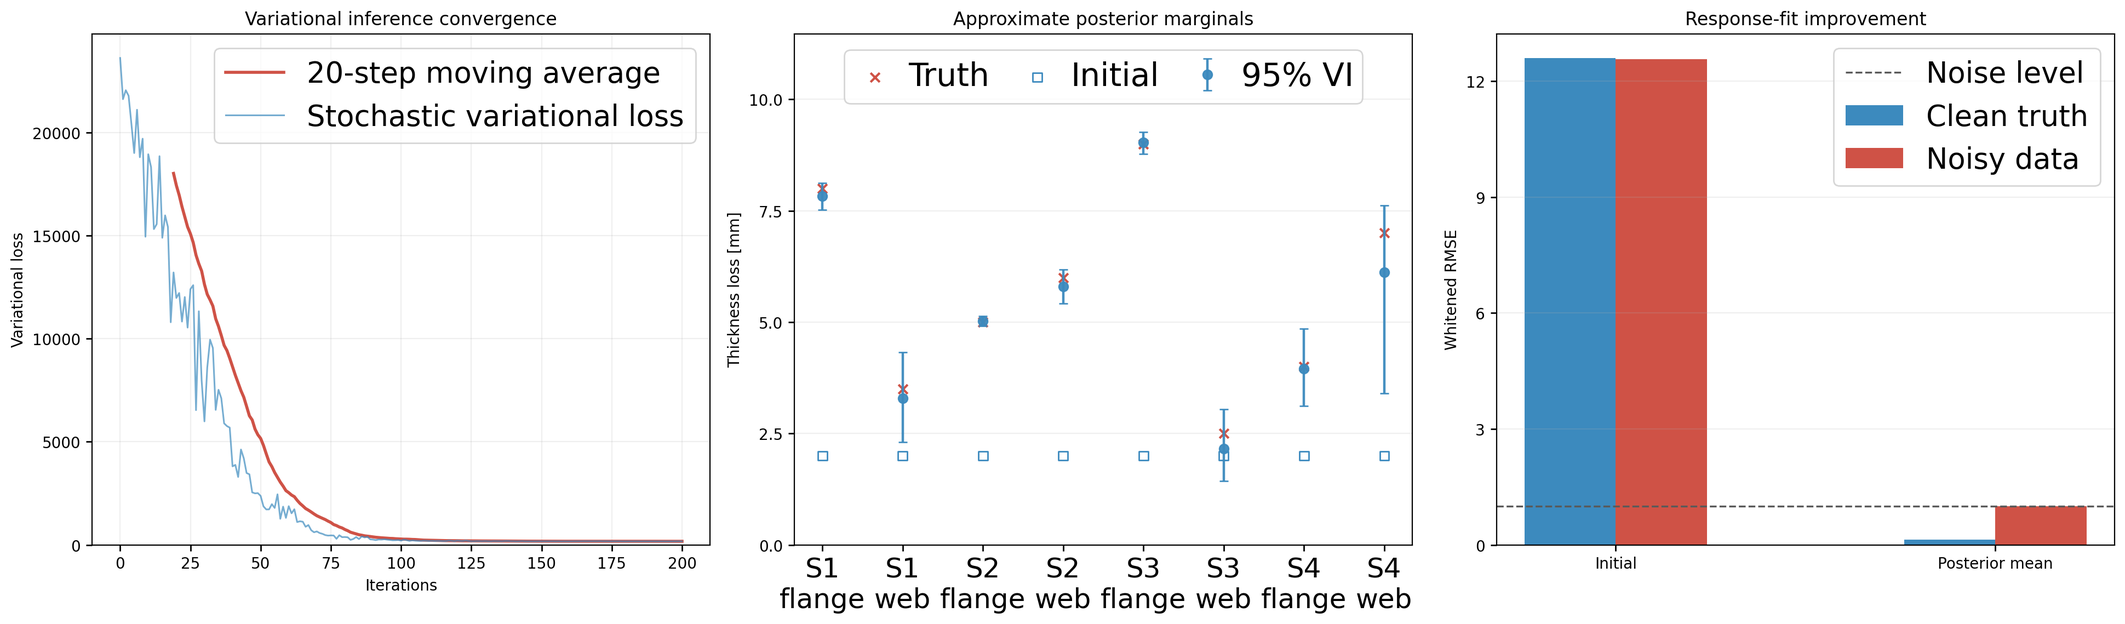
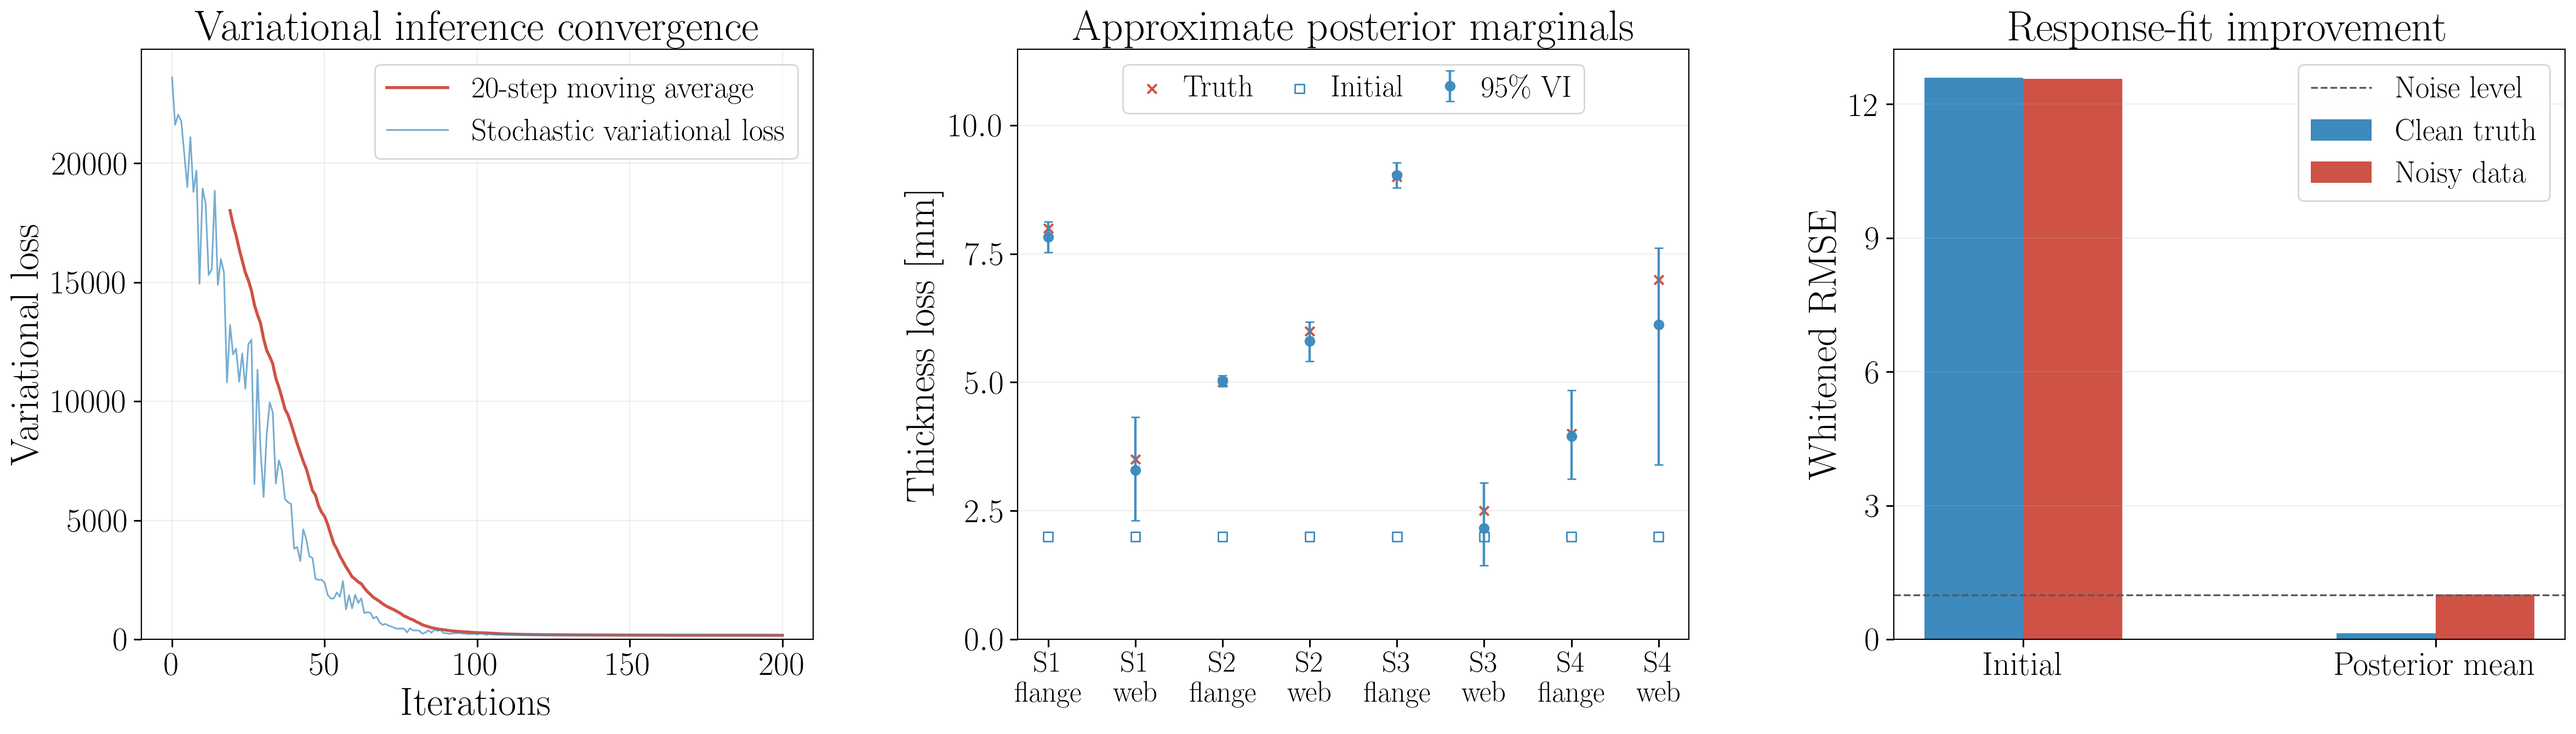
Improve README and frame result visualization

diff --git a/examples/shm_frame/plots.py b/examples/shm_frame/plots.py
@@ -10,7 +10,9 @@ from matplotlib.lines import Line2D
 from matplotlib.ticker import MaxNLocator
 from scipy.stats import gaussian_kde
 
-from utils.plot_style import BLUE, ERROR_CMAP, RED
+from utils.plot_style import BLUE, ERROR_CMAP, RED, set_plot_style
+
+set_plot_style(25)
 
 
 def plot_inference_summary(
@@ -29,7 +31,7 @@ def plot_inference_summary(
     mean = samples.mean(axis=0)
     lower, upper = np.quantile(samples, [0.025, 0.975], axis=0)
 
-    figure, axes = plt.subplots(1, 3, figsize=(19.5, 5.8))
+    figure, axes = plt.subplots(1, 3, figsize=(24.0, 7.2))
     steps = np.arange(len(vi_loss))
     window = min(20, max(1, len(vi_loss) // 5))
     if len(vi_loss) >= window:
@@ -58,7 +60,7 @@ def plot_inference_summary(
         ylim=(0.0, None),
     )
     axes[0].grid(True, alpha=0.2)
-    axes[0].legend(fontsize=19)
+    axes[0].legend(fontsize=20)
 
     positions = np.arange(truth.size)
     axes[1].errorbar(
@@ -94,13 +96,13 @@ def plot_inference_summary(
     axes[1].legend(
         loc="upper center",
         ncol=3,
-        fontsize=21,
+        fontsize=20,
         handlelength=1.2,
         handletextpad=0.45,
         columnspacing=0.9,
         borderpad=0.35,
     )
-    axes[1].tick_params(axis="x", labelsize=18)
+    axes[1].tick_params(axis="x", labelsize=20)
 
     x = np.arange(2)
     width = 0.24
@@ -126,13 +128,21 @@ def plot_inference_summary(
         ylim=(0.0, None),
     )
     axes[2].grid(True, axis="y", alpha=0.2)
-    axes[2].legend(fontsize=19)
+    axes[2].legend(fontsize=20)
 
     for axis in axes:
+        axis.title.set_fontsize(28)
+        axis.xaxis.label.set_fontsize(26)
+        axis.yaxis.label.set_fontsize(26)
         axis.yaxis.set_major_locator(MaxNLocator(nbins=5, min_n_ticks=3))
-        axis.tick_params(axis="both", which="major", width=1.0, length=4)
+        axis.tick_params(
+            axis="both", which="major", labelsize=22, width=1.1, length=5
+        )
 
-    figure.tight_layout()
+    # Keep the two-line parameter labels readable without crowding.
+    axes[1].tick_params(axis="x", labelsize=19)
+
+    figure.tight_layout(pad=1.0, w_pad=2.4)
     path = Path(output)
     path.parent.mkdir(parents=True, exist_ok=True)
     figure.savefig(path, dpi=200, bbox_inches="tight")

diff --git a/examples/shm_frame/infer.py b/examples/shm_frame/infer.py
@@ -32,9 +32,6 @@ from examples.shm_frame.model import (
     true_corrosion,
 )
 from examples.shm_frame.plots import plot_inference_summary, plot_posterior_matrix
-from utils.plot_style import set_plot_style
-
-set_plot_style(25)
 
 SECTION_API = ROOT / "tesseracts" / "section_properties" / "tesseract_api.py"
 OPENSEES_API = ROOT / "tesseracts" / "opensees_ddm" / "tesseract_api.py"

diff --git a/README.md b/README.md
@@ -14,26 +14,18 @@ For any questions, please contact the team at [wxuby@connect.ust.hk](mailto:wxub
 
 ## Table of contents
 
-- [Differentiable Structural Health Monitoring with Tesseract](#differentiable-structural-health-monitoring-with-tesseract)
-  - [Table of contents](#table-of-contents)
-  - [Introduction](#introduction)
-  - [Modeling framework](#modeling-framework)
-  - [The composition](#the-composition)
-  - [Why Tesseract](#why-tesseract)
-  - [Installation](#installation)
-  - [Examples](#examples)
-    - [Gradient validation](#gradient-validation)
-      - [Model](#model)
-      - [Results](#results)
-    - [Static frame corrosion inference](#static-frame-corrosion-inference)
-      - [Model and observations](#model-and-observations)
-      - [Inference and results](#inference-and-results)
-    - [Transient bridge corrosion inference](#transient-bridge-corrosion-inference)
-      - [Model and observations](#model-and-observations-1)
-      - [Inference and results](#inference-and-results-1)
-  - [Repository structure](#repository-structure)
-  - [References](#references)
-  - [License](#license)
+- [Introduction](#introduction)
+- [Modeling framework](#modeling-framework)
+- [The composition](#the-composition)
+- [Why Tesseract](#why-tesseract)
+- [Installation](#installation)
+- [Examples](#examples)
+  - [1. Gradient validation](#1-gradient-validation)
+  - [2. Static frame corrosion inference](#2-static-frame-corrosion-inference)
+  - [3. Transient bridge corrosion inference](#3-transient-bridge-corrosion-inference)
+- [Repository structure](#repository-structure)
+- [References](#references)
+- [License](#license)
 
 ## Introduction
 
@@ -170,7 +162,7 @@ python -m pip install -r requirements.txt
 
 ## Examples
 
-### Gradient validation
+### 1. Gradient validation
 
 This example validates the complete differentiable composition on a nonlinear, path-dependent problem before it is used inside an inference workflow.
 
@@ -236,7 +228,7 @@ figs/gradient_hysteresis.gif    # animated force-displacement history
 figs/gradient_validation.png    # gradient accuracy and timing comparison
 ```
 
-### Static frame corrosion inference
+### 2. Static frame corrosion inference
 
 This example applies the two-Tesseract composition to Bayesian estimation of localized corrosion in a two-dimensional, three-story, three-bay steel frame. Each bay is $5~\mathrm{m}$ wide, each story is $4~\mathrm{m}$ high, and every physical member is divided into four `OpenSees` `dispBeamColumn` elements.
 
@@ -307,7 +299,7 @@ figs/shm_frame_summary.png     # VI trajectory, marginals, and response error
 figs/shm_frame_posterior.png   # full posterior dependence matrix
 ```
 
-### Transient bridge corrosion inference
+### 3. Transient bridge corrosion inference
 
 This example estimates corrosion severity at three known candidate members of a three-dimensional steel pedestrian bridge.
 
